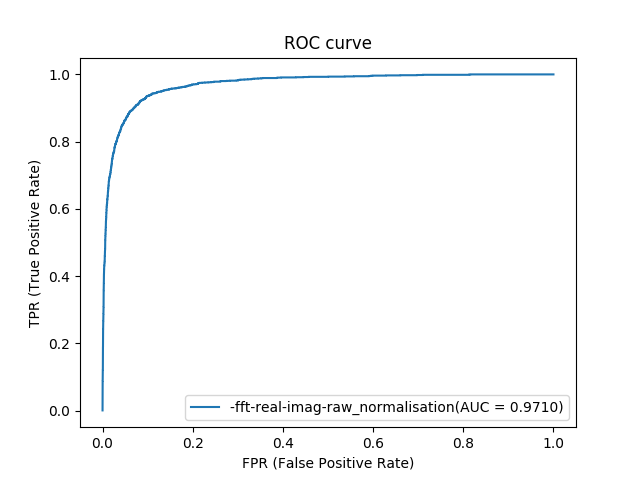
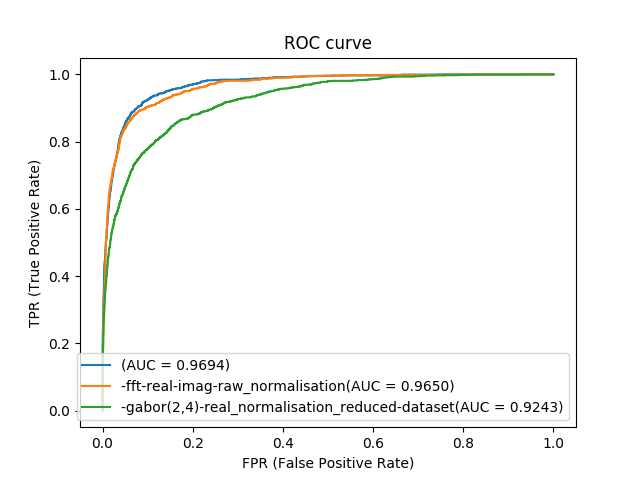
comparative 1

diff --git a/src/ROC_plot.py b/src/ROC_plot.py
@@ -36,8 +36,9 @@ path_data = config.get('data paths', 'path_local')
 
 algorithm = "cnn"
 
-name_experiment_list = ["log_normalisation_patches-fft-real_normalisation", "log_normalisation_patches-fft-real-imag_normalisation","log_normalisation_patches-fft-real-imag-raw_normalisation","log_normalisation_patches-gabor(2,2)-real_normalisation","log_normalisation_patches-gabor(2,2)-real_normalisation_reduced-dataset","log_normalisation_patches-gabor(2,4)-real_normalisation_reduced-dataset", "log_normalisation_patches-gabor(4,2)-real_normalisation_reduced-dataset","log_normalisation_patches-gabor(2,2)-real-imag_normalisation_reduced-dataset","log_normalisation_patches-fft-abs_normalisation","log_normalisation_patches-fft-imag_normalisation", "log_normalisation_patches-fft-real-imag-raw_normalisation_reduced-dataset"]
-
+#name_experiment_list = ["log_normalisation_patches-fft-real_normalisation", "log_normalisation_patches-fft-real-imag_normalisation","log_normalisation_patches-fft-real-imag-raw_normalisation","log_normalisation_patches-gabor(2,2)-real_normalisation","log_normalisation_patches-gabor(2,2)-real_normalisation_reduced-dataset","log_normalisation_patches-gabor(2,4)-real_normalisation_reduced-dataset", "log_normalisation_patches-gabor(4,2)-real_normalisation_reduced-dataset","log_normalisation_patches-gabor(2,2)-real-imag_normalisation_reduced-dataset","log_normalisation_patches-fft-abs_normalisation","log_normalisation_patches-fft-imag_normalisation", "log_normalisation_patches-fft-real-imag-raw_normalisation_reduced-dataset"]
+#name_experiment_list = ["log_normalisation_patches-fft-real_normalisation", "log_normalisation_patches-fft-real-imag_normalisation","log_normalisation_patches-fft-real-imag-raw_normalisation","log_normalisation_patches-gabor(2,2)-real_normalisation","log_normalisation_patches-gabor(2,2)-real_normalisation_reduced-dataset","log_normalisation_patches-gabor(2,4)-real_normalisation_reduced-dataset", "log_normalisation_patches-gabor(4,2)-real_normalisation_reduced-dataset","log_normalisation_patches-gabor(2,2)-real-imag_normalisation_reduced-dataset","log_normalisation_patches-fft-abs_normalisation","log_normalisation_patches-fft-imag_normalisation", "log_normalisation_patches-fft-real-imag-raw_normalisation_reduced-dataset"]
+name_experiment_list=["log_normalisation_clahe","log_normalisation_patches-fft-real-imag-raw_normalisation","log_normalisation_patches-gabor(2,4)-real_normalisation_reduced-dataset"]
 # name_experiment_list = ["log_normalisation_patches-gabor(2,2)-real_normalisation","log_normalisation_patches-gabor(2,2)-real_normalisation_reduced-dataset","log_normalisation_patches-gabor(2,4)-real_normalisation_reduced-dataset", "log_normalisation_patches-gabor(4,2)-real_normalisation_reduced-dataset","log_normalisation_patches-gabor(2,2)-real-imag_normalisation_reduced-dataset","log_normalisation_patches-fft-abs_normalisation","log_normalisation_patches-fft-imag_normalisation", "log_normalisation_patches-fft-real-imag-raw_normalisation_reduced-dataset"]
 # plt.figure(0).clf()
 # plt.title('ROC curve')
@@ -76,13 +77,13 @@ for name_experiment in name_experiment_list:
 	# test_integral = np.trapz(tpr,fpr) #trapz is numpy integration
 	print "\nArea under the ROC curve: " + str(AUC_ROC)
 	# roc_curve = plt.figure()
-	plt.figure()
+	# plt.figure()
 	plt.plot(fpr, tpr, '-', label=name_experiment[25:]+'(AUC = %0.4f)' % AUC_ROC)
 	plt.title('ROC curve')
 	plt.xlabel("FPR (False Positive Rate)")
 	plt.ylabel("TPR (True Positive Rate)")
 	plt.legend(loc="lower right")
-	plt.savefig('./roc_curve/' +name_experiment + "_ROC.png")
+	# plt.savefig('./roc_curve/' +name_experiment + "_ROC.png")
 
 	# fpr, tpr, thresholds = roc_curve(y_true = patches_masks_val[:,1], y_score=y_pred[:,1], drop_intermediate=False)
 	# AUC_ROC = roc_auc_score(patches_masks_val[:,1], y_pred[:,1])
@@ -91,6 +92,6 @@ for name_experiment in name_experiment_list:
 	# # roc_curve = plt.figure()
 	# plt.plot(fpr, tpr, '-',label=' (AUC = %0.4f)' %  AUC_ROC)
 	
-# plt.savefig('./roc_curve/' + "comparative_ROC.png")
+plt.savefig('./roc_curve/' + "comparative_ROC.png")
 
 
